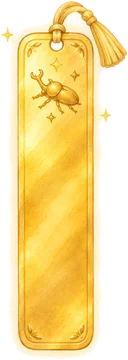
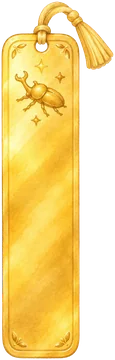
【デモ】金色のしおりを右はしにたてに・切りぬき直し

diff --git a/demo/index.html b/demo/index.html
@@ -481,7 +481,7 @@ html.land.tall #msgLayer .ans .btn.pic img{width:132px;height:99px}
 .nsBook .nsStamp{position:absolute;right:9%;bottom:10%;width:clamp(58px,calc(var(--H,100vh) * 0.110),100px);height:clamp(58px,calc(var(--H,100vh) * 0.110),100px);border:3px solid #d8402a;border-radius:50%;color:#d8402a;font-family:"M PLUS Rounded 1c",sans-serif;font-weight:900;font-size:clamp(9px,calc(var(--H,100vh) * .016),15px);letter-spacing:-.05em;line-height:1.2;display:flex;align-items:center;justify-content:center;text-align:center;transform:rotate(-14deg);opacity:.85;animation:nsStamp .5s .6s cubic-bezier(.2,1.8,.4,1) both}
 @keyframes nsIn{from{opacity:0;transform:scale(.94) rotate(-1deg)}}
 @keyframes nsStamp{0%{transform:scale(2.4) rotate(-30deg);opacity:0}100%{transform:rotate(-14deg);opacity:.85}}
-.nbBook .nbShiori{position:absolute;left:74%;top:65%;height:30%;aspect-ratio:128/360;padding:0;border:0;background:none;cursor:pointer;z-index:3;transform:translate(-50%,-50%) rotate(-78deg);filter:drop-shadow(2px 4px 4px #3a241266) drop-shadow(0 0 10px #ffd860aa)}.nbBook .nbShiori img{width:100%;height:100%;object-fit:contain;display:block}.nbBook .nbShiori:active{transform:translate(-50%,-50%) rotate(-78deg) scale(.96)}
+.nbBook.shi .nbKt{margin-right:7%}.nbBook .nbShiori{position:absolute;left:94.5%;top:62%;height:42%;aspect-ratio:115/360;padding:0;border:0;background:none;cursor:pointer;z-index:3;transform:translateX(-50%) rotate(3deg);transform-origin:50% 0;filter:drop-shadow(2px 4px 4px #3a241266)}.nbBook .nbShiori img{width:100%;height:100%;object-fit:contain;display:block}.nbBook .nbShiori:active{transform:translateX(-50%) rotate(3deg) scale(.97)}
 .nbBook .nbFoot{margin-top:.4em;display:flex;gap:1.2em;align-items:baseline;flex-wrap:wrap;font-size:clamp(12px,calc(var(--H,100vh) * .024),18px);color:#5a3a14}.nbBook .nbGold{color:#a06a08;font-weight:800}
 #rtabs #rtNote.gold::after{content:'';position:absolute;right:6px;top:-8px;width:14px;height:40px;background:url(img/ui/shiori.webp) center/contain no-repeat;transform:rotate(10deg);filter:drop-shadow(0 0 3px #ffd860)}
 .storyCard .sc.endCard{display:flex;flex-direction:row;align-items:stretch;gap:0;width:min(92%,860px);max-width:min(92%,860px);max-height:88%;background:linear-gradient(#fffaf0,#fff0c8);color:#4a3320;border:3px solid #e0b040;border-radius:18px;overflow:hidden;box-shadow:0 0 0 4px #fff6d8aa,0 0 40px 10px #ffd86066;text-align:left;padding:0}
@@ -2580,7 +2580,7 @@ const QS = new URLSearchParams(location.search);
 
 /* バージョンとこうしん情報：公開するたびに番号を上げる（ふだんは +0.0.1、大きなこうしんは +0.1） */
 const GAME_VER = '0.18.0';
-const BUILD = '20261115-2238';   // 公開するたびに tools/bump.sh が日時を書きこむ（version.json と同じ値）
+const BUILD = '20261115-2245';   // 公開するたびに tools/bump.sh が日時を書きこむ（version.json と同じ値）
 const CHANGELOG = [
   {v:'0.18.0', date:'2026-11-15', items:[
     '虫ずもうが もっと もりあがるようになった：対戦カードとVS、軍配、ぼくと あいての顔（かっているときは にこにこ）、必殺わざの大きなカットイン、おうえんと「かち！」の演出。とちゅうで曲が とぎれにくくした',
@@ -6684,7 +6684,7 @@ function showNote(){
   const page = ch=>{ const p = st.note[ch], now = !p && ch <= st.ch && st.seen[ch + '-1'];
     return `<button type="button" class="nbPage ${p ? 'on' : now ? 'now' : 'yet'}" data-ch="${ch}" style="--r:${[-3, 2, -1.5, 2.5, -2, 1.5][ch - 1]}deg"><i class="nbTape"></i><span class="nbNo">${ch}</span><span class="nbPic">${p && p.bug ? svgBest(p.bug, {rare:p.rare}) : p ? '📝' : '？'}</span><b>${esc(place(ch))}</b><small>${p ? esc(p.name || '') : now ? 'しらべちゅう' : 'まだ'}</small></button>`; };
   const L = document.createElement('div'); L.className = 'popWin nbLayer';
-  L.innerHTML = `<div class="nbBook">${hasShiori() ? '<button type="button" class="nbShiori" aria-label="金色のしおり"><img src="img/ui/shiori.webp" alt="" draggable="false"></button>' : ''}<button type="button" class="nbX" aria-label="とじる">×</button>
+  L.innerHTML = `<div class="nbBook${hasShiori() ? ' shi' : ''}">${hasShiori() ? '<button type="button" class="nbShiori" aria-label="金色のしおり"><img src="img/ui/shiori.webp" alt="" draggable="false"></button>' : ''}<button type="button" class="nbX" aria-label="とじる">×</button>
     <div class="nbL"><div class="nbTitle">${st.name ? `<small>${esc(st.name)}の</small>` : ''}虫しらべノート</div><div class="nbGrid">${[1,2,3,4,5,6].map(page).join('')}</div><div class="nbHint norb">ページを さわると、くわしく 読めるよ</div></div>
     <div class="nbR"><div class="nbKh">ふしぎのかけら　<b>${x.kakera.length}</b> / ${all.length}</div>
       <div class="nbKg">${all.map(k=> x.kakera.includes(k) ? `<button type="button" class="nbK on" data-k="${k}"><img src="img/ui/ic_kakera.webp" alt="" draggable="false"><span>${esc(KAKERA[k].name)}</span></button>` : `<span class="nbK"><img src="img/ui/ic_kakera.webp" alt="" draggable="false"><span>？</span></span>`).join('')}</div>
